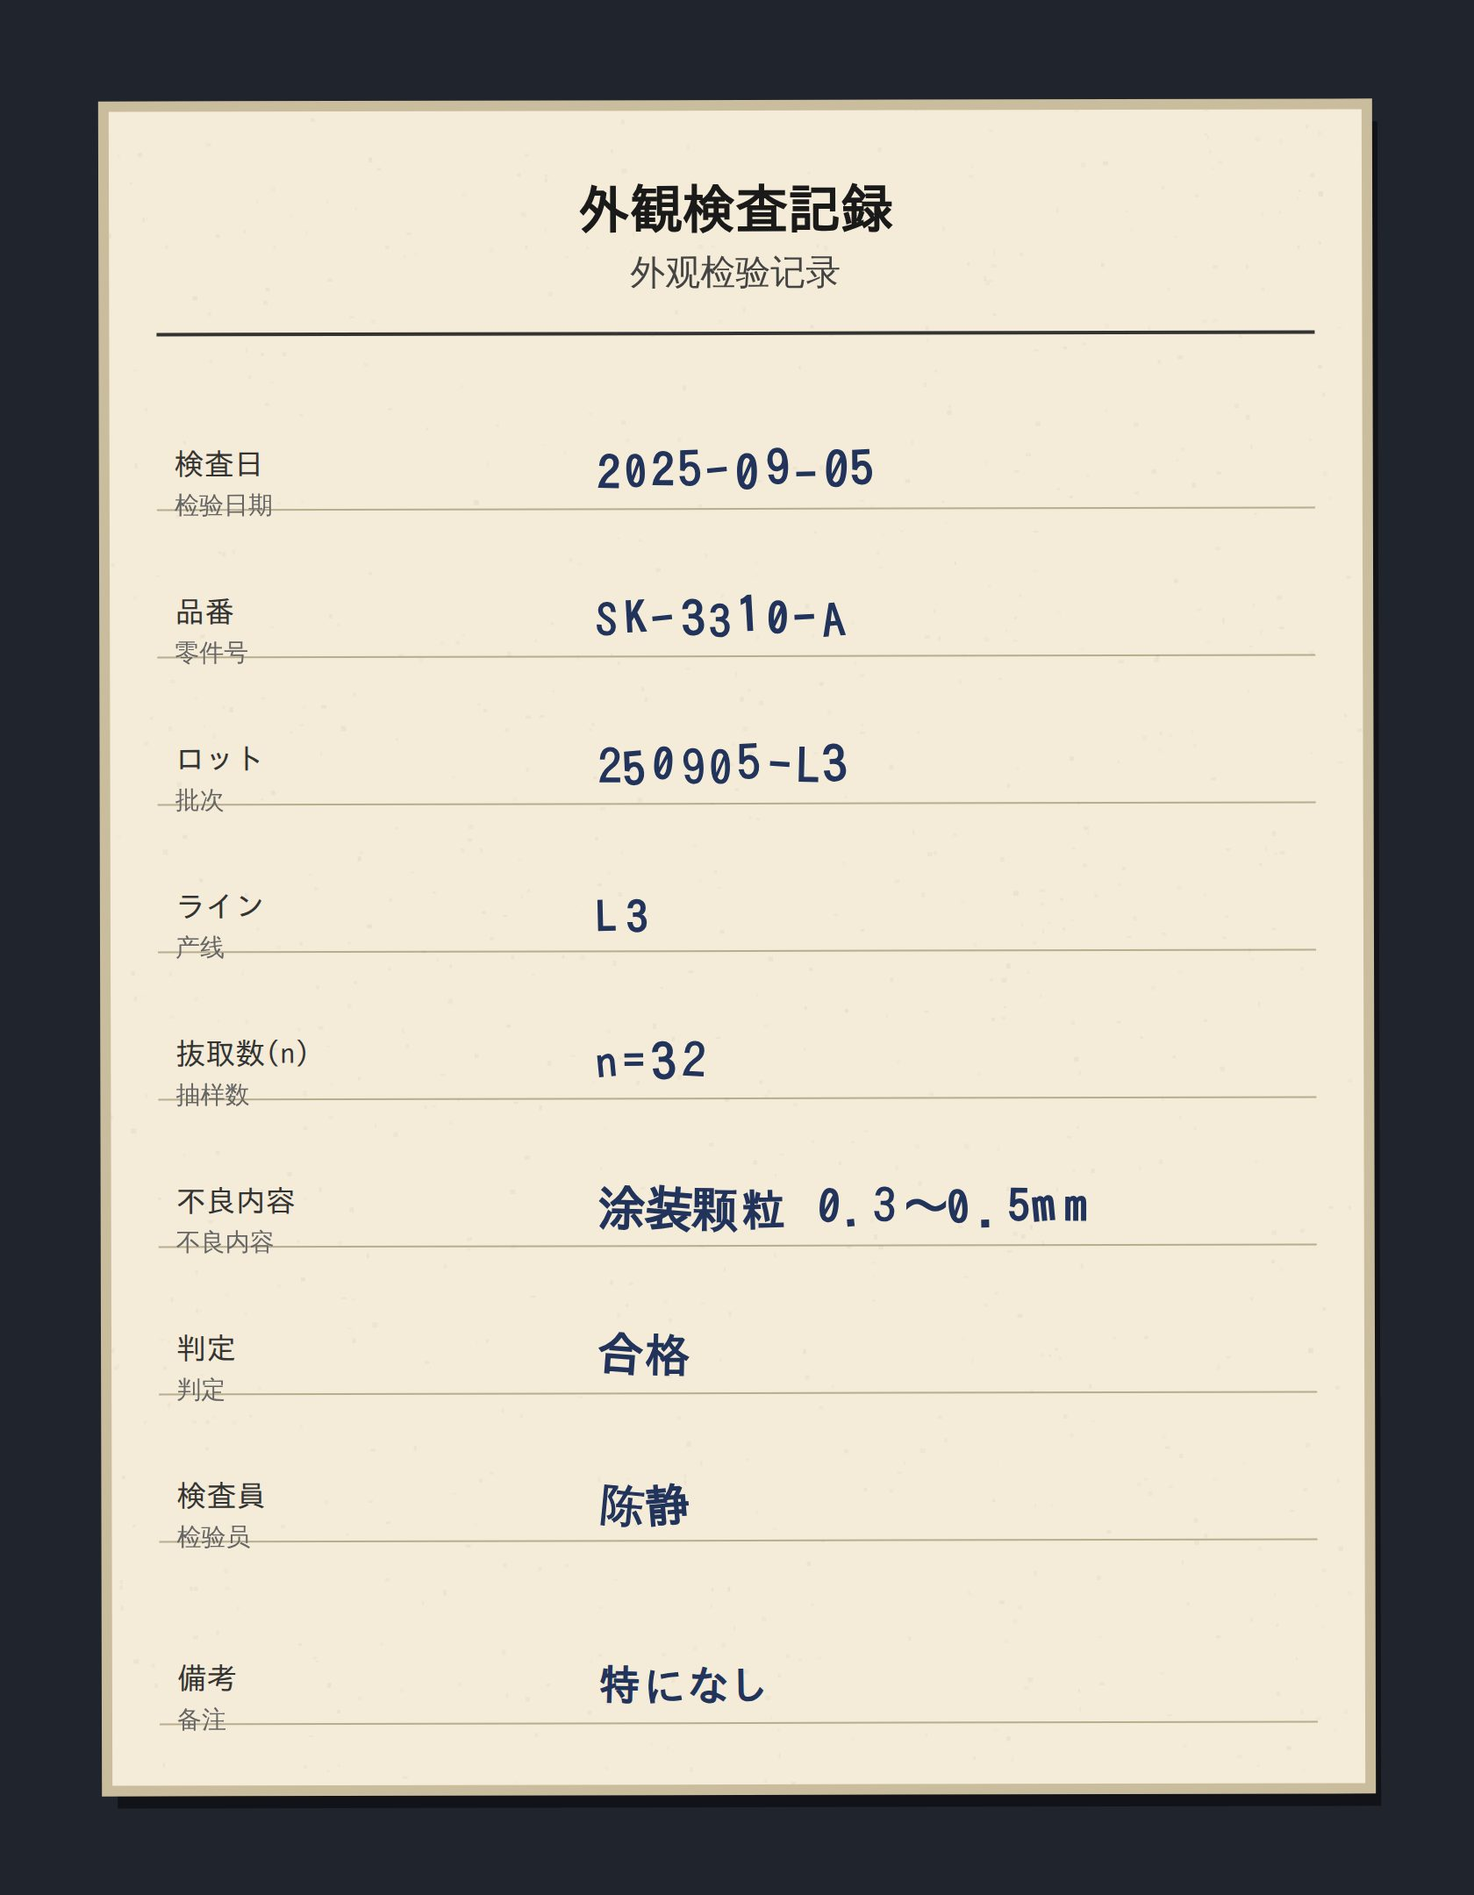
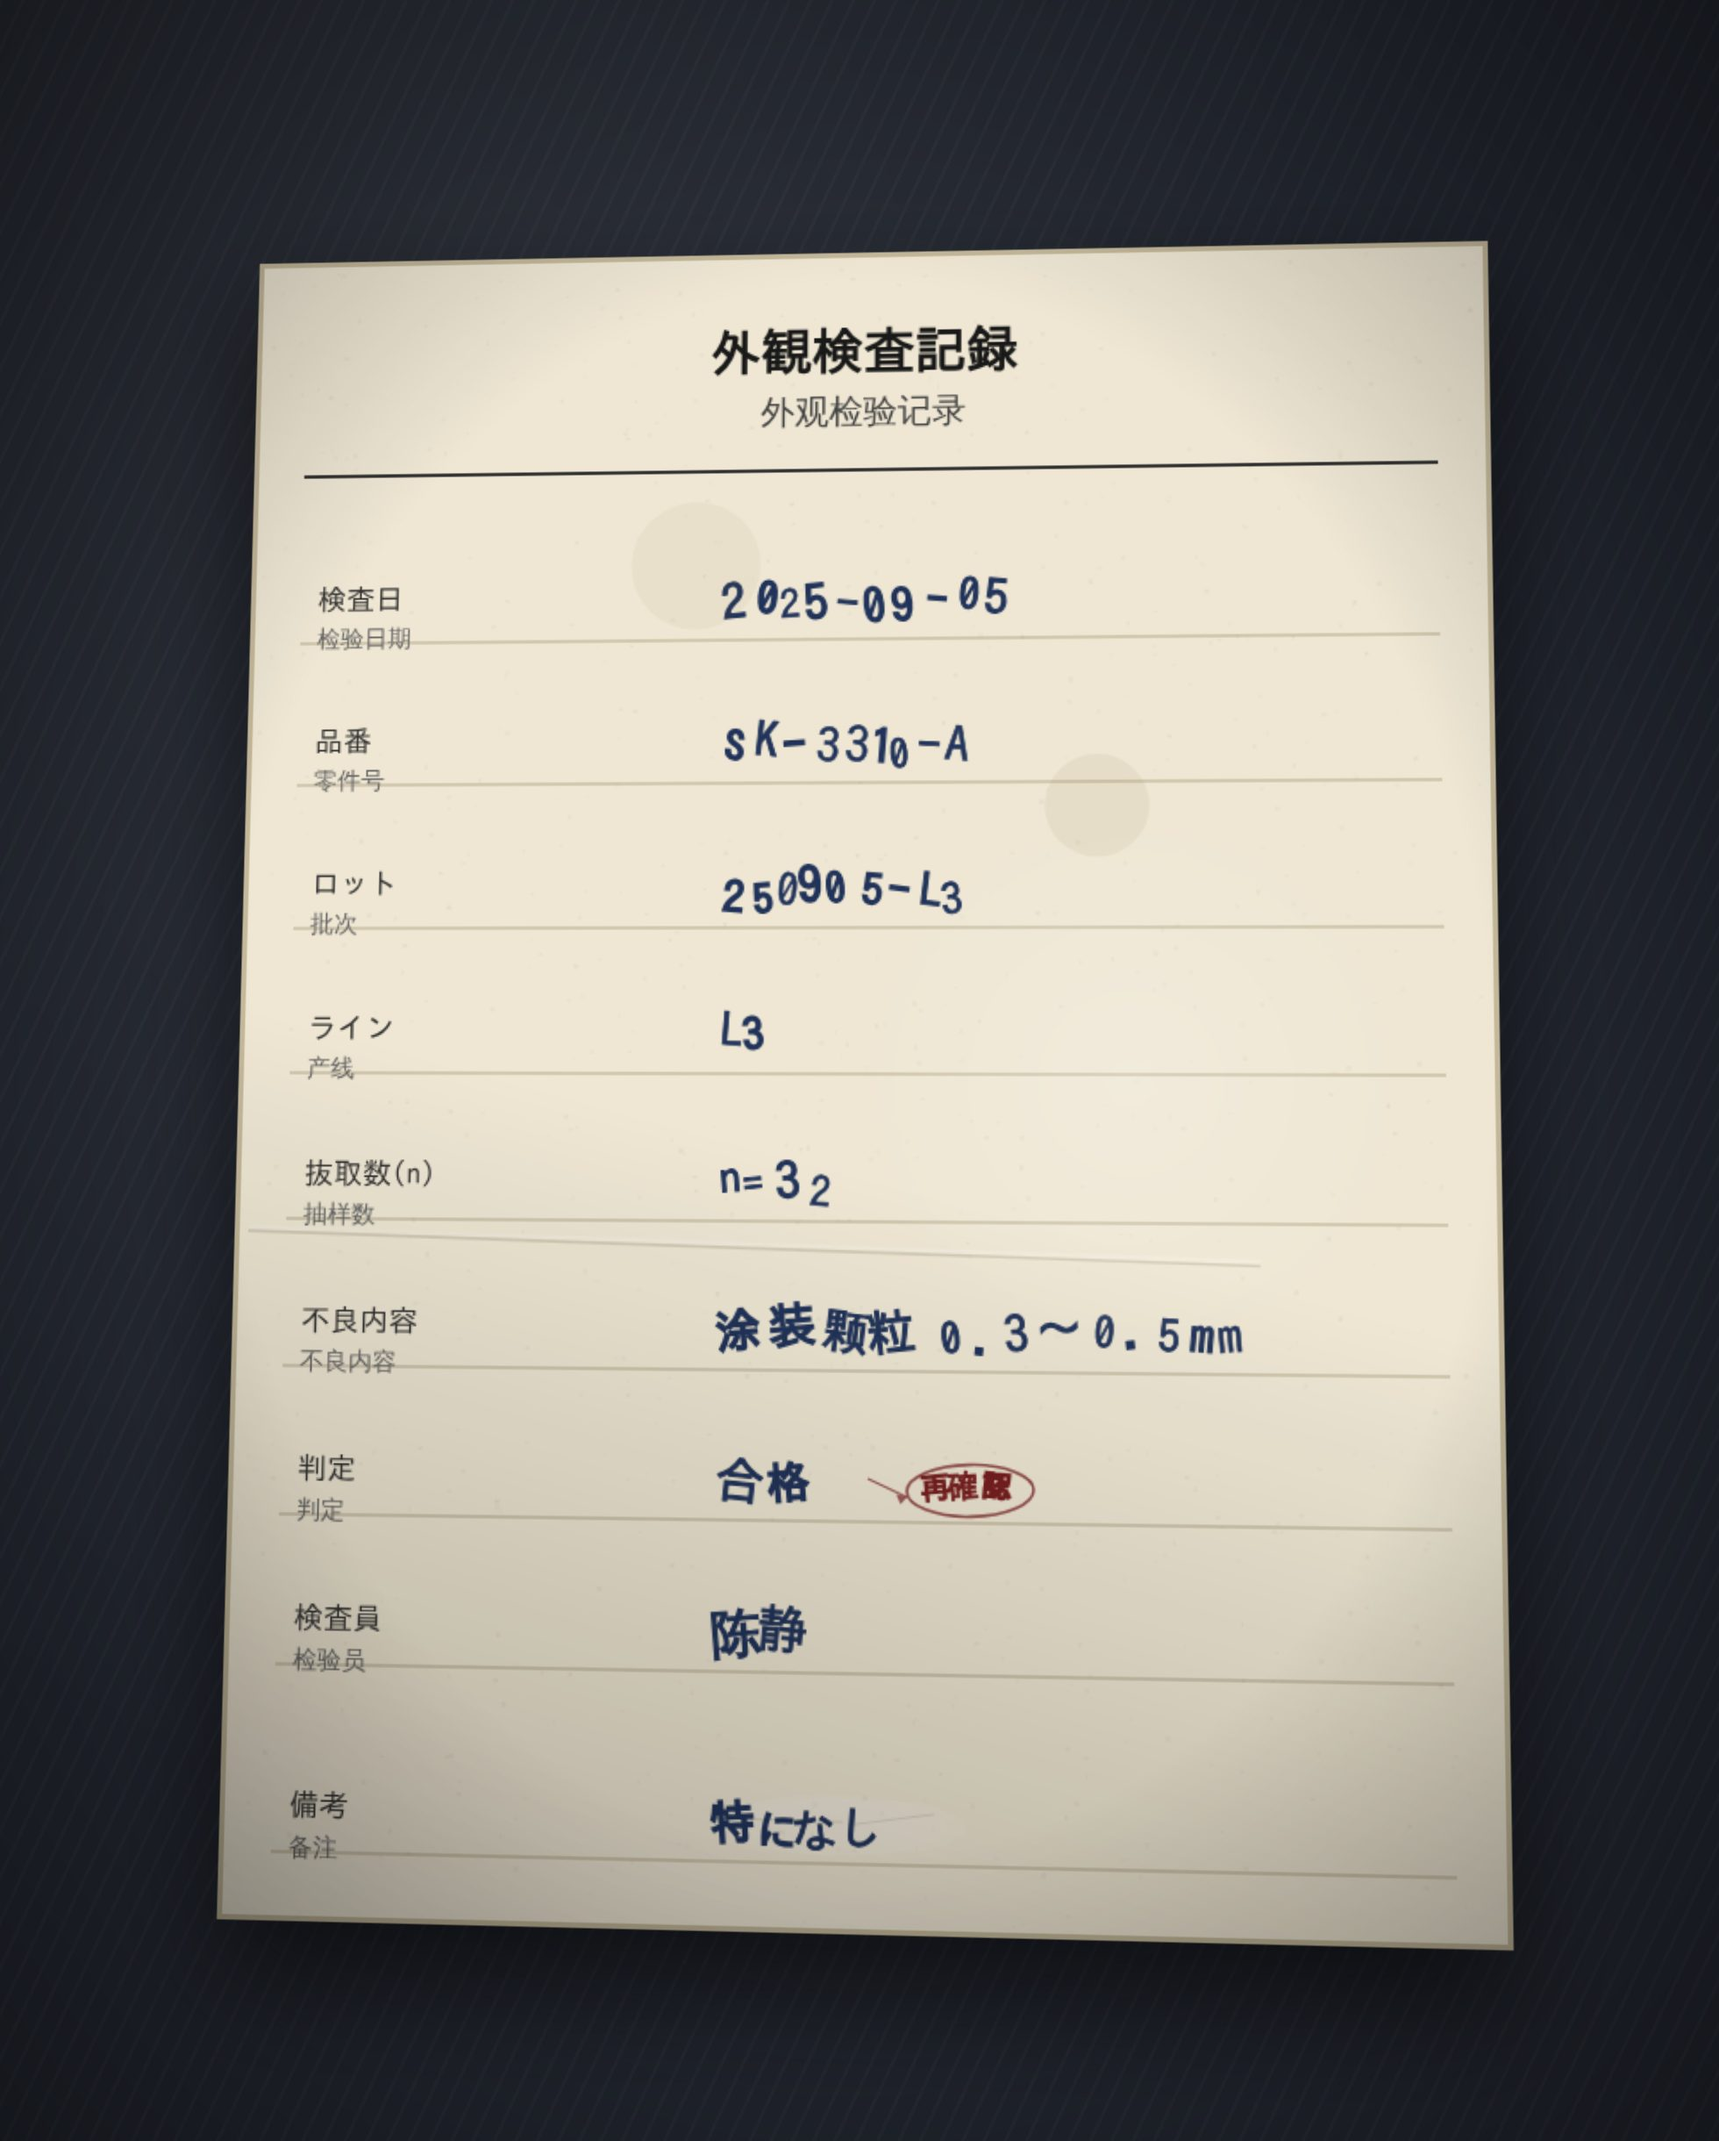
fix(mock): PR-0 帳票画像の手書き・撮影感を強める（PM代理レビュー指摘対応）
生成画像が「きれいな帳票のスキャン」に見え、有識者の指摘「きれいなインプット
が無くても読める」を見せる素材として整いすぎているとの指摘（reviewer 並行
レビュー中、PM 代理判断）を受け、tools/gen-demo-assets.mjs の描画を強化。
内容（値・項目・読めない1項目・確信度低2項目の位置）は変更していない。

- 手書きらしさ: 文字ごとの回転を±4〜7°に拡大、基線の緩いうねり、字間の
  ばらつき、線の太さの揺れを増加。数字も1文字ずつ個別描画（rewriteSmudge
  による書き直し跡、circledNote による「再確認」の丸メモ＋矢印、ロット欄の
  罫線はみ出しを追加）
- 判読不能な備考欄: 線の束（illegibleScribble）から、にじみのぼかし＋太い
  ペンの往復による塗りつぶし/こすれ表現（inkBlotIllegible）に変更
- 写真らしさ: renderPhoto() を CSS 3D transform ベースに刷新。台形の歪み・
  照明ムラ・蛍光灯の反射・軽いボケ・四隅のビネット・紙の折り目/油じみ
  （paperDefects）・暗色の作業台背景を追加。3枚それぞれ角度・明るさを
  rng で違えている
- 決定性は維持（mulberry32 固定シード）。--check で2回連続実行のバイト
  一致を再確認。サイズは300KB上限内（198,333 / 201,551 / 178,318 bytes）

Refs #311

Claude-Session: https://claude.ai/code/session_0176yYr8cDNW3Mbz2sShUDK1

diff --git a/mock/assets/demo/README.md b/mock/assets/demo/README.md
@@ -20,9 +20,21 @@
 ## 画像・PDF（tools/gen-demo-assets.mjs）
 
 - 帳票は SVG を JS で組み立て、Chromium（Playwright）でスクリーンショット / PDF 化した生成物です。
-- 手書き風の揺らぎ（文字ごとの回転・位置ずれ・線の太さのばらつき）と、判読不能な走り書き・
-  取り消し線での訂正は、決定的な乱数（`mulberry32`。ファイルごとに固定シード）で作っています。
-  `Date.now()` / `Math.random()` は使っていません。
+- **手書きらしさ**：値の 1 文字ごとに回転（±4〜7°）・基線の緩いうねり・字間のばらつき・線の
+  太さの揺れを付けています。数字も等幅ではなく 1 文字ずつ別々に描画。一部の値には
+  「消してから書き直した」跡（薄い塗り＋うっすら残る前の筆跡の上に本来の値を重ね書き）、
+  行末に丸で囲んだメモ（「再確認」など、台本と矛盾しない短い語＋矢印）を付けています。
+  判読不能な備考欄は、線の束ではなく「ペンで塗りつぶした・こすれた」見た目（にじみのぼかし＋
+  太いペンの往復）にしています。
+- **写真らしさ**：CSS の 3D transform（`perspective`）でわずかな台形の歪み（スマホで斜めから
+  撮った見た目）を、照明のムラ（片側が暗い・斜めのグラデーション）・蛍光灯の反射（白いにじみ）・
+  軽いボケ（`filter: blur()`）・四隅の影（ビネット）・紙の折り目や指跡/油じみ・背景の
+  暗色の作業台を重ねて出しています。角度・明るさ・反射の位置はファイルごとに違えてあります
+  （3 枚を見比べると撮り方が微妙に異なります）。帳票の見出し・欄名は印刷のまま
+  （手書きの揺らぎを付けていない）にして、印字とペン書きの差をはっきり出しています。
+- これらの見た目の演出は**すべて決定的な乱数**（`mulberry32`。ファイルごとに固定シード）で
+  作っています。`Date.now()` / `Math.random()` は使っていません。**内容（値・項目・
+  読めない箇所・確信度が低い箇所の位置）は変えていません**（見た目の演出のみの変更）。
 - 使った Chromium のバージョン: **141.0.7390.37**（Playwright 1.56.1 にバンドルされたもの）
 - 再生成:
   ```
